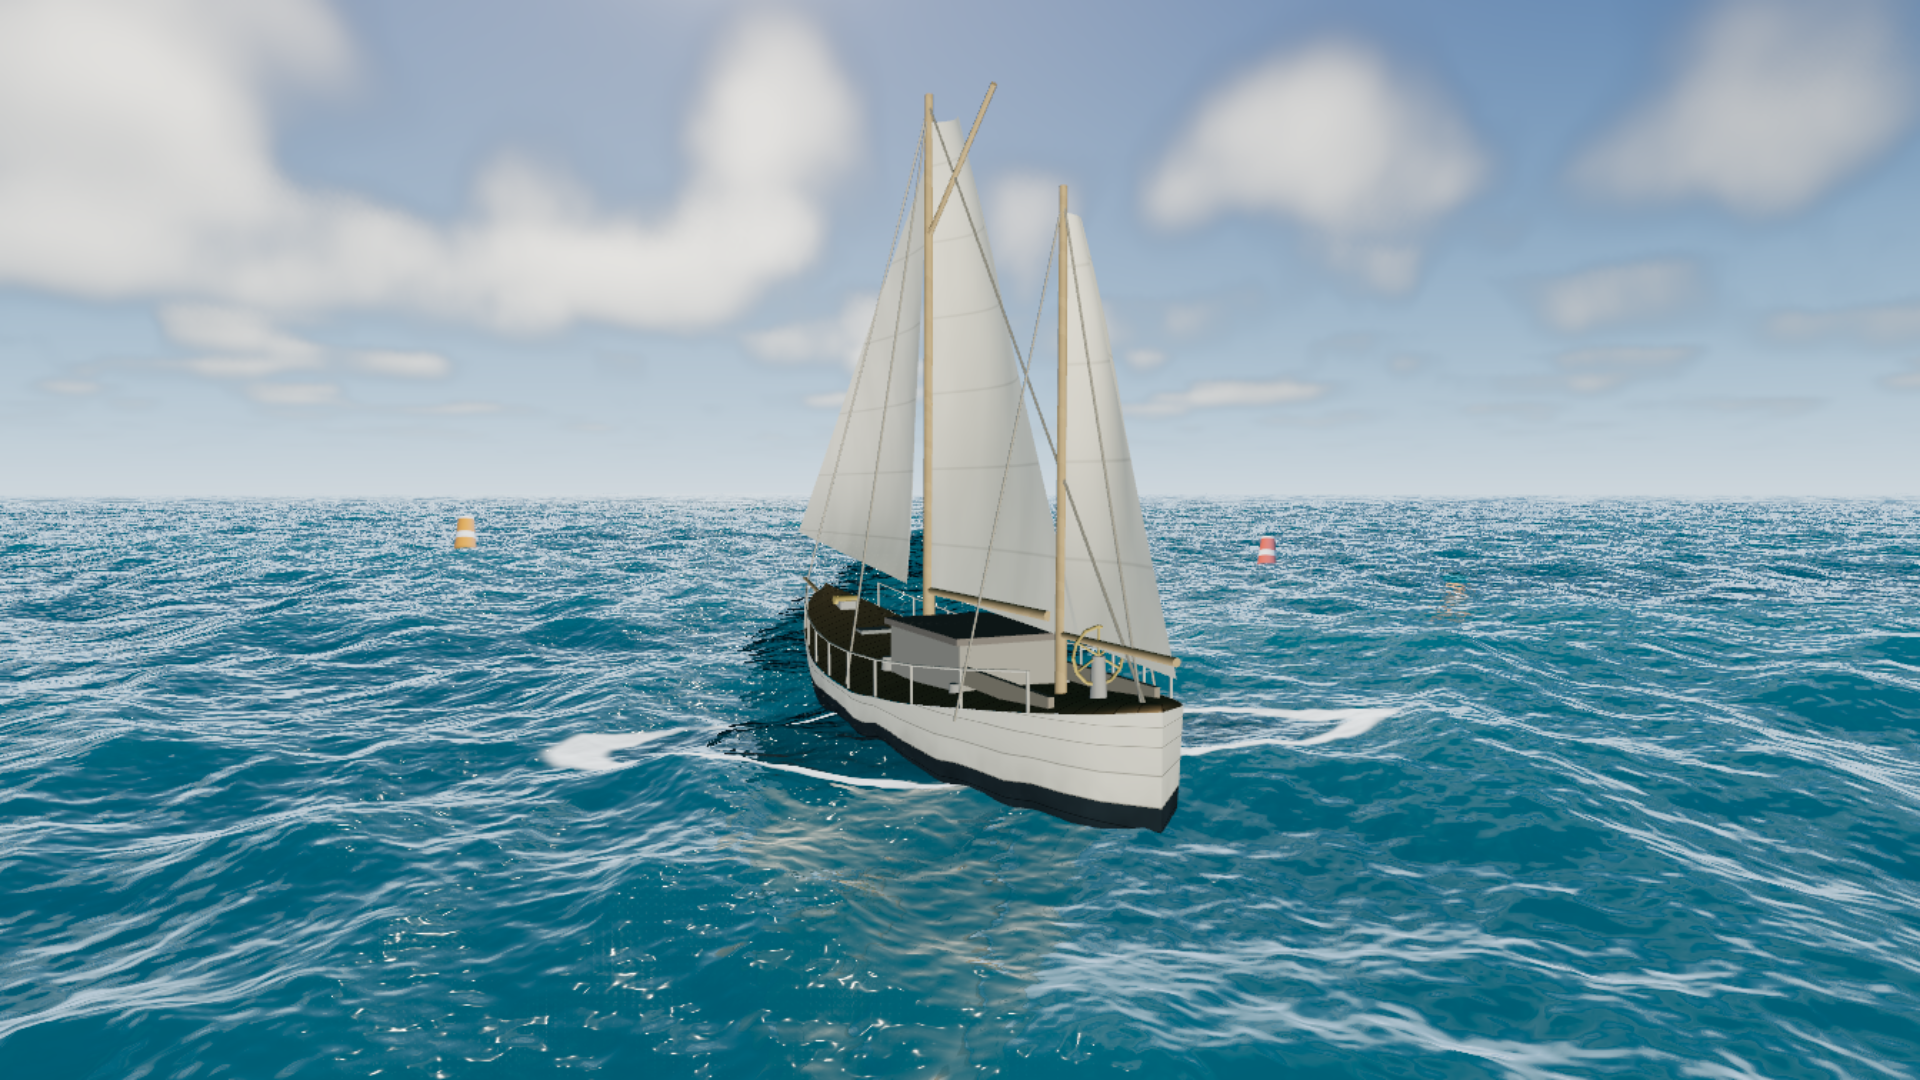
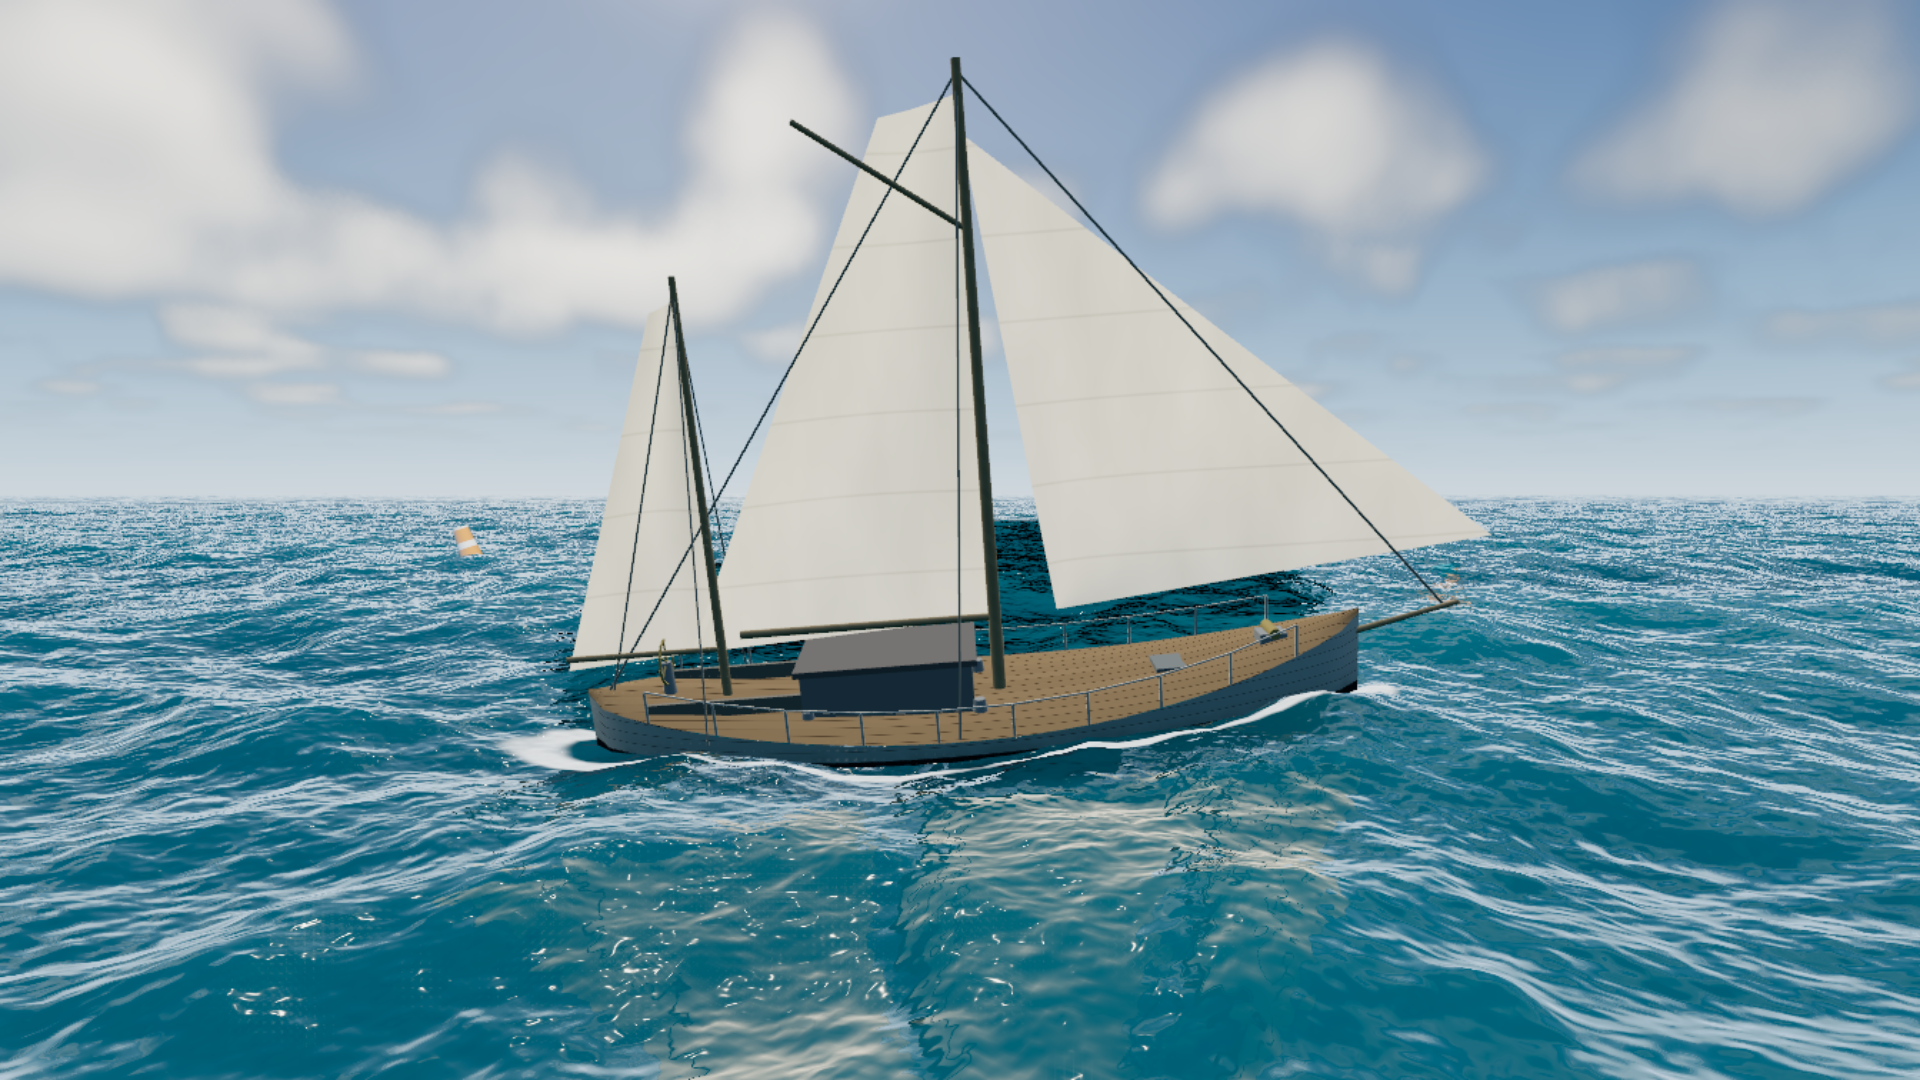
Make the boat a rigid body, give her steering, unhide the waterline foam
Three complaints, three separate bugs.

The boat passed through the water. The "soft hull" pulled every submerged
vertex onto the water height at its own position, which guaranteed a perfect
waterline and destroyed everything else: the hull became a rubber sheet
draped on the surface, so waves deformed it instead of washing along it.
Replaced with a rigid-body fit — four probes at the ends of the hull's axes,
their mean is heave and their differences are pitch and roll. Probes twelve
metres apart low-pass the chop for free. A rigid hull that sometimes buries a
bow is right; a hull that cannot is not.

She only ever went one way. The heading was baked into the geometry with
rotateY, so she could not turn and the wake never bent — which is the tell
that nothing underneath is moving. The heading is a uniform now and the yaw
happens in the vertex shader, on a long lazy weave with two incommensurate
periods, plus a lee heel that eases as she comes onto the wind.

Moving the yaw into the shader exposed a latent bug: the tilt basis used
cross(ref, normal), which is (-1,0,0) on level water — a basis mirrored in X.
Harmless while the heading was baked into a symmetric hull, since it only
swapped port for starboard. With a live heading it mirrored the heading too
and she sailed backwards, heeled the wrong way. cross(normal, ref).

And the waterline foam was invisible. The sun offset added for the hull
shadow was folded into hullD, which the collar also reads, so the foam ring
[…]

diff --git a/src/props/vessel.js b/src/props/vessel.js
@@ -49,6 +49,9 @@ const SINK = 1.35;
  */
 const PART = { hull: 0, deck: 2, cabin: 3, spar: 4, sail: 5, wire: 6 };
 
+/** Metres per second. About three knots. */
+const SPEED = 1.55;
+
 /** How far she may drift from the viewer before wrapping to the other side. */
 const LATTICE = 900;
 
@@ -508,11 +511,6 @@ export class Vessel {
 
 		const geometry = buildGeometry();
 
-		// Bake the heading in. The hull never turns, so rotating on the CPU once
-		// keeps the vertex program to a single basis transform — and lets the
-		// water's contact terms use one world-space ellipse instead of a rotation.
-		geometry.rotateY( heading );
-		geometry.computeVertexNormals();
 
 		this.material = this._buildMaterial( spectral );
 
@@ -525,17 +523,25 @@ export class Vessel {
 		// The half-extents are the hull's, not the rig's — a mast twelve metres up
 		// does not have a waterline.
 		env.u.vesselPos.value.set( anchor[ 0 ], 0, anchor[ 1 ] );
-		env.u.vesselHalf.value.set( BEAM / 2 - 0.05, ( LENGTH_AFT + LENGTH_FWD ) / 2 - 0.6 );
+		// The collar is drawn where this ellipse crosses 1, so it has to sit just
+		// *outside* the planking. Sized to the hull exactly, it fell under the hull
+		// for most of its length — an ellipse is narrower than a boat everywhere
+		// except amidships — and the waterline foam simply vanished from view.
+		env.u.vesselHalf.value.set( BEAM / 2 + 0.40, ( LENGTH_AFT + LENGTH_FWD ) / 2 + 0.5 );
 		env.u.vesselDir.value.set( Math.cos( heading ), Math.sin( heading ) );
 		env.u.vesselSpeed.value = 1;
 
 		// Bow direction in world XZ. rotateY(h) maps the hull's +Z to this.
-		this._bow = [ Math.sin( heading ), Math.cos( heading ) ];
-		this._travel = 0;
+		this._baseHeading = heading;
+		this._heading = heading;
+		this._pos = [ anchor[ 0 ], anchor[ 1 ] ];
+		this._t = 0;
 
 		// QA holds her still so the fixed inspection views stay repeatable. The
 		// wake uniform is untouched, so the shots still show it.
 		this.hove = false;
+
+		env.u.vesselHeel.value = 0.05;
 
 	}
 
@@ -557,76 +563,103 @@ export class Vessel {
 
 		material.positionNode = Fn( () => {
 
-			// Live, because she sails. A baked constant would have pinned the hull
-			// while the wake and the waterline foam — which read the uniform —
-			// walked away from her.
 			const anchor = u.vesselPos.xz.toVar( 'vesAnchor' );
 
-			const disp = vec3( 0, 0, 0 ).toVar( 'vesDisp' );
-			const slope = vec2( 0, 0 ).toVar( 'vesSlope' );
+			// Live heading, so she can steer. It used to be baked into the geometry
+			// with rotateY(), which is cheaper but means the boat can only ever go
+			// one way — and a wake that never bends is the thing that gives away
+			// that nothing is being simulated.
+			const hc = u.vesselDir.x, hs = u.vesselDir.y;
+			const bowDir = vec2( hs, hc ).toVar( 'vesBow' );
+			const stbdDir = vec2( hc, hs.negate() ).toVar( 'vesStbd' );
 
-			if ( spectral ) {
+			const waterAt = ( xz ) => {
 
-				// Longest cascade only. A hull fifteen metres long averages over
-				// everything shorter than itself; feeding it the chop cascades makes
-				// it twitch like a cork, which is the single most common way a
-				// floating object in a demo gives itself away.
-				const uvw = anchor.div( spectral.sizes[ 0 ] );
-				disp.assign( texture( spectral.disp[ 0 ], uvw, float( 0 ) ).xyz );
-				slope.assign( texture( spectral.slope[ 0 ], uvw, float( 0 ) ).xy.mul( 0.55 ) );
-
-			}
-
-			const normal = normalize( vec3( slope.x.negate(), 1.0, slope.y.negate() ) ).toVar( 'vesN' );
-
-			const ref = vec3( 0.0, 0.0, 1.0 );
-			const tangent = normalize( cross( ref, normal ) ).toVar( 'vesT' );
-			const bitangent = cross( normal, tangent ).toVar( 'vesB' );
-
-			const p = positionGeometry;
-			const tilted = tangent.mul( p.x ).add( normal.mul( p.y ) ).add( bitangent.mul( p.z ) );
-
-			const world = vec3( anchor.x, 0.0, anchor.y ).add( disp ).add( tilted ).toVar( 'vesWorld' );
-
-			if ( spectral ) {
-
-				// Soft hull.
-				//
-				// A rigid body placed against a single wave sample is wrong along its
-				// own length: the swell under the bow is routinely half a metre from
-				// the swell under the stern, and the error shows up as daylight under
-				// the planking — the one artefact that instantly reads as "pasted on".
-				//
-				// So the submerged part of the hull is pulled onto the water height at
-				// *its own* position, fading out at the sheer. The topsides, deck and
-				// rig stay rigid, which is what carries the boat's pitch and roll. It
-				// bends the hull by a few centimetres in exchange for a waterline that
-				// is correct everywhere, and the bend is under water.
-				// Sample every cascade, not just the swell: the waterline has to match
-				// the surface the eye sees, and the chop cascades are a third of a
-				// metre of it. (The *rigid* placement above still uses cascade 0
-				// alone — that is about how a hull responds, which is a different
-				// question from where the water is.)
-				const wxz = world.xz.toVar( 'vesWXZ' );
-				const here = float( 0 ).toVar( 'vesWaterY' );
+				const h = float( 0 ).toVar();
 
 				for ( let c = 0; c < spectral.sizes.length; c ++ ) {
 
-					here.addAssign( texture( spectral.disp[ c ], wxz.div( spectral.sizes[ c ] ), float( 0 ) ).y );
+					h.addAssign( texture( spectral.disp[ c ], xz.div( spectral.sizes[ c ] ), float( 0 ) ).y );
 
 				}
 
-				const sink = smoothstep( 0.80, - 0.05, p.y ).toVar( 'vesSink' );
+				return h;
 
-				// Assigning through a swizzle — world.y.assign(...) — compiles without
-				// complaint and does nothing. The hull kept its rigid height and hung
-				// above the water exactly as before the conform was written.
-				world.assign( vec3( world.x, mix( world.y, here.add( p.y ), sink ), world.z ) );
+			};
+
+			const normal = vec3( 0, 1, 0 ).toVar( 'vesN' );
+			const heave = float( 0 ).toVar( 'vesHeave' );
+
+			if ( spectral ) {
+
+				/* --- rigid-body fit --------------------------------------
+				 *
+				 * Four probes at the ends of the hull's two axes. Their mean is the
+				 * heave; their differences are the pitch and roll. That is a plane
+				 * fitted to the water the hull is actually sitting on, which is what
+				 * a hull does — it cannot follow anything shorter than itself, and
+				 * probes twelve metres apart low-pass the chop for free.
+				 *
+				 * This replaced a "soft hull" that pulled every submerged vertex onto
+				 * the water height at its own position. That guaranteed a perfect
+				 * waterline and destroyed everything else: the hull became a rubber
+				 * sheet draped on the surface, so waves deformed it instead of
+				 * washing along it, and the boat read as passing through the sea
+				 * rather than floating in it. A rigid hull that sometimes buries a
+				 * bow is right; a hull that cannot is not.
+				 */
+				const LP = 6.0, BP = 1.7;
+
+				const hFwd = waterAt( anchor.add( bowDir.mul( LP ) ) );
+				const hAft = waterAt( anchor.sub( bowDir.mul( LP ) ) );
+				const hStb = waterAt( anchor.add( stbdDir.mul( BP ) ) );
+				const hPrt = waterAt( anchor.sub( stbdDir.mul( BP ) ) );
+
+				heave.assign( hFwd.add( hAft ).add( hStb ).add( hPrt ).mul( 0.25 ) );
+
+				// Slopes along the hull's own axes, mapped back into world XZ.
+				const pitch = hFwd.sub( hAft ).div( LP * 2 );
+				const roll = hStb.sub( hPrt ).div( BP * 2 );
+
+				// Plus a steady lee heel from the press of wind in the sails. A
+				// dead-upright sailing boat looks becalmed however fast she goes.
+				const grad = bowDir.mul( pitch ).add( stbdDir.mul( roll.add( u.vesselHeel ) ) ).toVar( 'vesGrad' );
+
+				normal.assign( normalize( vec3( grad.x.negate(), 1.0, grad.y.negate() ) ) );
 
 			}
 
+			// cross(ref, normal) — the obvious order — yields (-1, 0, 0) for a level
+			// surface, i.e. a basis mirrored in X. That was invisible while the
+			// heading was baked into a symmetric hull: it flipped port for starboard
+			// and nothing else. The moment the yaw moved into the shader it started
+			// mirroring the heading too, and she sailed backwards heeled the wrong
+			// way. cross(normal, ref) is the right-handed one.
+			const ref = vec3( 0.0, 0.0, 1.0 );
+			const tangent = normalize( cross( normal, ref ) ).toVar( 'vesT' );
+			const bitangent = cross( tangent, normal ).toVar( 'vesB' );
+
+			// Yaw the hull into its heading, then tilt it onto the fitted plane.
+			const p = positionGeometry;
+			const yawed = vec3(
+				p.x.mul( hc ).add( p.z.mul( hs ) ),
+				p.y,
+				p.x.mul( hs ).negate().add( p.z.mul( hc ) )
+			).toVar( 'vesYawed' );
+
+			const nl = normalLocal;
+			const nYawed = vec3(
+				nl.x.mul( hc ).add( nl.z.mul( hs ) ),
+				nl.y,
+				nl.x.mul( hs ).negate().add( nl.z.mul( hc ) )
+			).toVar( 'vesNYawed' );
+
+			const tilted = tangent.mul( yawed.x ).add( normal.mul( yawed.y ) ).add( bitangent.mul( yawed.z ) );
+
+			const world = vec3( anchor.x, heave, anchor.y ).add( tilted ).toVar( 'vesWorld' );
+
 			vNormal.assign( normalize(
-				tangent.mul( normalLocal.x ).add( normal.mul( normalLocal.y ) ).add( bitangent.mul( normalLocal.z ) )
+				tangent.mul( nYawed.x ).add( normal.mul( nYawed.y ) ).add( bitangent.mul( nYawed.z ) )
 			) );
 			vPaint.assign( attribute( 'paint', 'vec3' ) );
 			vPart.assign( attribute( 'part', 'float' ) );
@@ -773,17 +806,58 @@ export class Vessel {
 	 * can sail indefinitely without ever sailing out of the world. The wrap is
 	 * several hundred metres out, where haze has taken the contrast anyway.
 	 */
+	/** Put her back on her mark, so fixed-camera QA views stay repeatable. */
+	rewind() {
+
+		this._t = 0;
+		this._heading = this._baseHeading;
+		this._pos = [ this.anchor[ 0 ], this.anchor[ 1 ] ];
+
+		const u = this.env.u;
+		u.vesselPos.value.set( this.anchor[ 0 ], 0, this.anchor[ 1 ] );
+		u.vesselDir.value.set( Math.cos( this._heading ), Math.sin( this._heading ) );
+
+	}
+
 	update( camera, dt ) {
 
-		if ( ! this.hove ) this._travel += dt * 1.55;
+		if ( this.hove ) return;
 
-		const bx = this.anchor[ 0 ] + this._bow[ 0 ] * this._travel;
-		const bz = this.anchor[ 1 ] + this._bow[ 1 ] * this._travel;
+		this._t += dt;
 
-		const x = bx + Math.round( ( camera.position.x - bx ) / LATTICE ) * LATTICE;
-		const z = bz + Math.round( ( camera.position.z - bz ) / LATTICE ) * LATTICE;
+		/* --- steering -----------------------------------------------------
+		 *
+		 * A long, lazy weave rather than a dead straight line. Two incommensurate
+		 * periods so the track never visibly repeats.
+		 *
+		 * This is why the heading is a uniform and no longer baked into the
+		 * geometry: a boat that can only go one way leaves a wake that never
+		 * bends, and a wake that never bends is the tell that nothing underneath
+		 * is actually moving.
+		 */
+		this._heading = this._baseHeading
+			+ Math.sin( this._t * 0.055 ) * 0.42
+			+ Math.sin( this._t * 0.021 + 1.7 ) * 0.26;
 
-		this.env.u.vesselPos.value.set( x, 0, z );
+		const bx = Math.sin( this._heading );
+		const bz = Math.cos( this._heading );
+
+		this._pos[ 0 ] += bx * dt * SPEED;
+		this._pos[ 1 ] += bz * dt * SPEED;
+
+		// Wrap on a long lattice relative to the viewer, like the buoys, so she
+		// can sail indefinitely without ever sailing out of the world.
+		const x = this._pos[ 0 ] + Math.round( ( camera.position.x - this._pos[ 0 ] ) / LATTICE ) * LATTICE;
+		const z = this._pos[ 1 ] + Math.round( ( camera.position.z - this._pos[ 1 ] ) / LATTICE ) * LATTICE;
+
+		const u = this.env.u;
+		u.vesselPos.value.set( x, 0, z );
+		u.vesselDir.value.set( Math.cos( this._heading ), Math.sin( this._heading ) );
+
+		// Heel follows the turn: she stands up in a luff and lies down when the
+		// wind comes abeam. Small, and entirely for the eye.
+		const rel = Math.sin( this._heading - this.env.params.windAngle * Math.PI / 180 );
+		u.vesselHeel.value = 0.030 + Math.abs( rel ) * 0.045;
 
 	}
 

diff --git a/src/ocean/material.js b/src/ocean/material.js
@@ -363,11 +363,7 @@ export function createOceanMaterial( env, field, sky, opts = {} ) {
 			// is the ellipse the boat actually occupies rather than its bounding
 			// box. At a 57-degree heading the box is nearly twice the area, and the
 			// foam collar drawn from it read as a raft the boat was sitting on.
-			// Offset opposite the sun by the hull's own height over the sun's
-			// elevation — a shadow is cast, not centred. Clamped because a low sun
-			// would otherwise throw it to the horizon.
-			const drop = u.sunDir.xz.div( max( u.sunDir.y, float( 0.30 ) ) ).mul( 1.4 );
-			const rel = P.xz.sub( u.vesselPos.xz ).add( drop ).toVar( 'hullRel' );
+			const rel = P.xz.sub( u.vesselPos.xz ).toVar( 'hullRel' );
 
 			// Rotate world XZ into the hull's frame: x across the beam, y toward the
 			// bow. The transpose of this had the sign on the wrong term, which
@@ -387,7 +383,20 @@ export function createOceanMaterial( env, field, sky, opts = {} ) {
 			// it. Without this the boat looks pasted on: it is the darkening in the
 			// water, more than the object itself, that says something is *in* the
 			// sea rather than in front of it.
-			const shade = oneMinus( smoothstep( 0.72, 1.12, hullD ) ).mul( 0.34 ).toVar( 'hullShade' );
+			//
+			// It gets its *own* distance, offset opposite the sun by the hull height
+			// over the sun's elevation, because a shadow is cast rather than centred.
+			// That offset used to be folded into hullD itself — which also feeds the
+			// waterline collar, so the foam ring was displaced two metres off the
+			// planking and spent most of its life hidden under the hull.
+			const drop = u.sunDir.xz.div( max( u.sunDir.y, float( 0.30 ) ) ).mul( 1.4 );
+			const relS = rel.add( drop );
+			const shadeLocal = vec2(
+				relS.x.mul( c ).sub( relS.y.mul( sn ) ),
+				relS.x.mul( sn ).add( relS.y.mul( c ) )
+			).div( u.vesselHalf );
+
+			const shade = oneMinus( smoothstep( 0.72, 1.15, length( shadeLocal ) ) ).mul( 0.34 ).toVar( 'hullShade' );
 			body.mulAssign( oneMinus( shade ) );
 
 		} );

diff --git a/src/env/uniforms.js b/src/env/uniforms.js
@@ -192,6 +192,7 @@ export function createEnv() {
 		vesselDir: uniform( new Vector2( 1, 0 ) ),        // (cos, sin) of the heading
 		vesselMix: uniform( 0 ),                          // 0 when no vessel is present
 		vesselSpeed: uniform( 0 ),                        // 0..1, how hard she is pushing a wake
+		vesselHeel: uniform( 0 ),                         // lee heel, as a slope
 
 		/* underwater */
 		uwTint: uniform( new Color() ),

diff --git a/src/core/diagnostics.js b/src/core/diagnostics.js
@@ -283,7 +283,7 @@ export function installQAHooks( app ) {
 		if ( patch.vesselHove !== undefined && app.vessel ) {
 
 			app.vessel.hove = !! patch.vesselHove;
-			if ( patch.vesselHove ) app.vessel._travel = 0;
+			if ( patch.vesselHove ) app.vessel.rewind();
 
 		}
 
